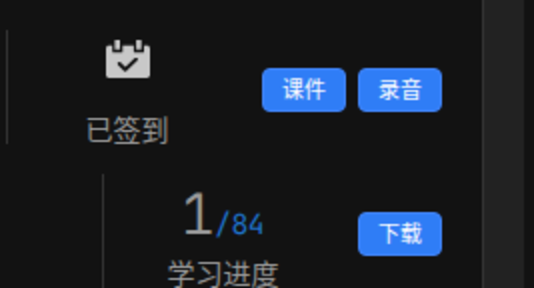
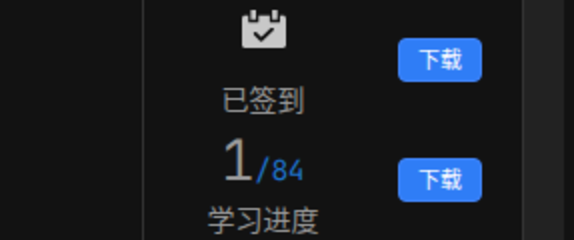
v2.9.2：精简模式每卡只有一个「下载」（去录音）；完整模式全部按钮平铺，去掉悬停浮层

diff --git a/changjiang-courseware-grabber.user.js b/changjiang-courseware-grabber.user.js
@@ -1,7 +1,7 @@
 // ==UserScript==
 // @name         长江雨课堂 课件抓取助手
 // @namespace    https://github.com/qzhengpyuan/changjiang-course-grabber
-// @version      2.9.1
+// @version      2.9.2
 // @icon         https://cdn.jsdelivr.net/gh/qzhengpyuan/changjiang-course-grabber@main/assets/icon-64.png
 // @icon64       https://cdn.jsdelivr.net/gh/qzhengpyuan/changjiang-course-grabber@main/assets/icon-128.png
 // @homepageURL  https://github.com/qzhengpyuan/changjiang-course-grabber
@@ -56,8 +56,8 @@
 
   const APP = "cjyk";
   const APP_NAME = "changjiang-courseware-grabber";
-  const VERSION = "2.9.1";
-  const STYLE_VERSION = "2.9.1";
+  const VERSION = "2.9.2";
+  const STYLE_VERSION = "2.9.2";
 
   const LOG_PAGE_LIMIT = 30;
   const SLIDE_CONCURRENCY = 3;
@@ -189,19 +189,7 @@
     .cjyk-btn-secondary { background: #fff !important; color: #1b2733 !important; border-color: #c4d2ec; }
     .cjyk-btn-secondary:hover { background: #eef4ff !important; }
     .cjyk-btn-small { min-width: 42px; height: 22px; padding: 0 7px; font-size: 11px; }
-    .cjyk-actions-inline { margin-left: 8px; position: relative; }
-    /* 完整模式下次要按钮平时不占位，鼠标移到卡片上才浮出来（不挤压「学习进度」） */
-    .cjyk-extra {
-      display: none; position: absolute; right: 100%; top: 50%; transform: translateY(-50%);
-      margin-right: 6px; padding: 3px 5px; gap: 6px; align-items: center;
-      /* Canvas 跟随站点深浅色主题，避免深色主题下露出半透明底色 */
-      background: Canvas !important; border: 1px solid rgba(140,155,175,.35); border-radius: 6px;
-      box-shadow: 0 2px 10px rgba(0,0,0,.16);
-      white-space: nowrap; z-index: 6;
-    }
-    .activity-box:hover .cjyk-extra,
-    .cjyk-extra:hover,
-    .cjyk-actions-inline:focus-within .cjyk-extra { display: inline-flex; }
+    .cjyk-actions-inline { margin-left: 8px; }
 
     .cjyk-progress {
       position: fixed; right: 18px; bottom: 18px; z-index: 2147483000;
@@ -1303,8 +1291,9 @@
     return null;
   }
 
-  // 在每条课件/视频卡片右侧挂按钮（对应参考项目 ensureActionButton）
-  // 按钮数量受设置控制：full=全部格式/直链，compact=每类一个主按钮，off=不挂
+  // 在每条课件/视频/课堂卡片右侧挂按钮（对应参考项目 ensureActionButton）
+  // 精简：每张卡片只有一个「下载」，课堂也只下课件，不带录音
+  // 完整：全部按钮平铺，格式/直链/录音都直接放出来，不折叠不悬停
   function buildCardActions(doc, activity) {
     const holder = doc.createElement("span");
     holder.className = "cjyk-actions cjyk-actions-inline";
@@ -1313,26 +1302,36 @@
 
     const primaryFormat = settings.pptFormat;
     const small = "cjyk-btn-small";
-    const secondary = "cjyk-btn-small cjyk-btn-secondary";
+    const secondary = "cjyk-btn-secondary cjyk-btn-small";
+
+    if (mode === "compact") {
+      // 统一一个词：下载。格式取设置里的默认格式
+      const downloadButton = createButton(doc, "下载", small);
+      if (activity.type === 14) {
+        downloadButton.title = `下载课堂课件（${pptFormatLabel(primaryFormat)}）`;
+        downloadButton.addEventListener("click", (event) => {
+          event.stopPropagation();
+          handleClassPpt(doc, activity, primaryFormat, downloadButton);
+        });
+      } else if (activity.type === 2) {
+        downloadButton.title = `下载课件（${pptFormatLabel(primaryFormat)}）`;
+        downloadButton.addEventListener("click", (event) => {
+          event.stopPropagation();
+          handlePpt(doc, activity, primaryFormat, downloadButton);
+        });
+      } else {
+        downloadButton.title = "下载视频 MP4";
+        downloadButton.addEventListener("click", (event) => {
+          event.stopPropagation();
+          handleVideo(doc, activity, downloadButton);
+        });
+      }
+      holder.append(downloadButton);
+      return holder;
+    }
 
     if (activity.type === 14) {
-      // 课堂：上课时投的那套课件 + 那节课的录音
-      if (mode === "compact") {
-        const deckButton = createButton(doc, "课件", small);
-        deckButton.title = `下载课堂课件（${pptFormatLabel(primaryFormat)}）`;
-        deckButton.addEventListener("click", (event) => {
-          event.stopPropagation();
-          handleClassPpt(doc, activity, primaryFormat, deckButton);
-        });
-        const audioButton = createButton(doc, "录音", small);
-        audioButton.title = "下载这节课的录音（mp3，不是录屏）";
-        audioButton.addEventListener("click", (event) => {
-          event.stopPropagation();
-          handleClassAudio(doc, activity, audioButton);
-        });
-        holder.append(deckButton, audioButton);
-        return holder;
-      }
+      // 课堂：上课时投的那套课件（三种封装）+ 那节课的录音（mp3 / 签名直链）
       const pdfButton = createButton(doc, "课件PDF", small);
       pdfButton.addEventListener("click", (event) => {
         event.stopPropagation();
@@ -1360,24 +1359,11 @@
         event.stopPropagation();
         copyAudioLink(doc, activity);
       });
-      const extra = doc.createElement("span");
-      extra.className = "cjyk-extra";
-      extra.append(zipButton, pptxButton, audioButton, audioLinkButton);
-      holder.append(pdfButton, extra);
+      holder.append(pdfButton, zipButton, pptxButton, audioButton, audioLinkButton);
       return holder;
     }
 
     if (activity.type === 2) {
-      if (mode === "compact") {
-        const downloadButton = createButton(doc, "下载", small);
-        downloadButton.title = `下载课件（${pptFormatLabel(primaryFormat)}）`;
-        downloadButton.addEventListener("click", (event) => {
-          event.stopPropagation();
-          handlePpt(doc, activity, primaryFormat, downloadButton);
-        });
-        holder.append(downloadButton);
-        return holder;
-      }
       const pdfButton = createButton(doc, "PDF", small);
       pdfButton.addEventListener("click", (event) => {
         event.stopPropagation();
@@ -1393,31 +1379,22 @@
         event.stopPropagation();
         handlePpt(doc, activity, "pptx", pptxButton);
       });
-      const extra = doc.createElement("span");
-      extra.className = "cjyk-extra";
-      extra.append(zipButton, pptxButton);
-      holder.append(pdfButton, extra);
+      holder.append(pdfButton, zipButton, pptxButton);
       return holder;
     }
 
     // 视频
-    const videoButton = createButton(doc, mode === "compact" ? "下载" : "视频", small);
+    const videoButton = createButton(doc, "视频", small);
     videoButton.addEventListener("click", (event) => {
       event.stopPropagation();
       handleVideo(doc, activity, videoButton);
     });
-    holder.append(videoButton);
-    if (mode !== "compact") {
-      const linkButton = createButton(doc, "直链", secondary);
-      linkButton.addEventListener("click", (event) => {
-        event.stopPropagation();
-        copyVideoLink(doc, activity);
-      });
-      const extra = doc.createElement("span");
-      extra.className = "cjyk-extra";
-      extra.append(linkButton);
-      holder.append(extra);
-    }
+    const linkButton = createButton(doc, "直链", secondary);
+    linkButton.addEventListener("click", (event) => {
+      event.stopPropagation();
+      copyVideoLink(doc, activity);
+    });
+    holder.append(videoButton, linkButton);
     return holder;
   }
 
@@ -2222,8 +2199,8 @@
 
           <div class="cjyk-set-group">
             <div class="cjyk-set-group-title">卡片按钮</div>
-            <label class="cjyk-set-row"><input type="radio" name="cjyk-cardmode" value="full"${settings.cardButtons === "full" ? " checked" : ""}> 完整：每种格式一个按钮</label>
-            <label class="cjyk-set-row"><input type="radio" name="cjyk-cardmode" value="compact"${settings.cardButtons === "compact" ? " checked" : ""}> 精简：每类一个按钮，格式跟上面的默认值</label>
+            <label class="cjyk-set-row"><input type="radio" name="cjyk-cardmode" value="full"${settings.cardButtons === "full" ? " checked" : ""}> 完整：所有按钮平铺（课件三种格式、录音、直链）</label>
+            <label class="cjyk-set-row"><input type="radio" name="cjyk-cardmode" value="compact"${settings.cardButtons === "compact" ? " checked" : ""}> 精简：每张卡片只有一个「下载」，格式跟上面的默认值</label>
             <label class="cjyk-set-row"><input type="radio" name="cjyk-cardmode" value="off"${settings.cardButtons === "off" ? " checked" : ""}> 关闭：只从「批量下载」里下</label>
           </div>
 
